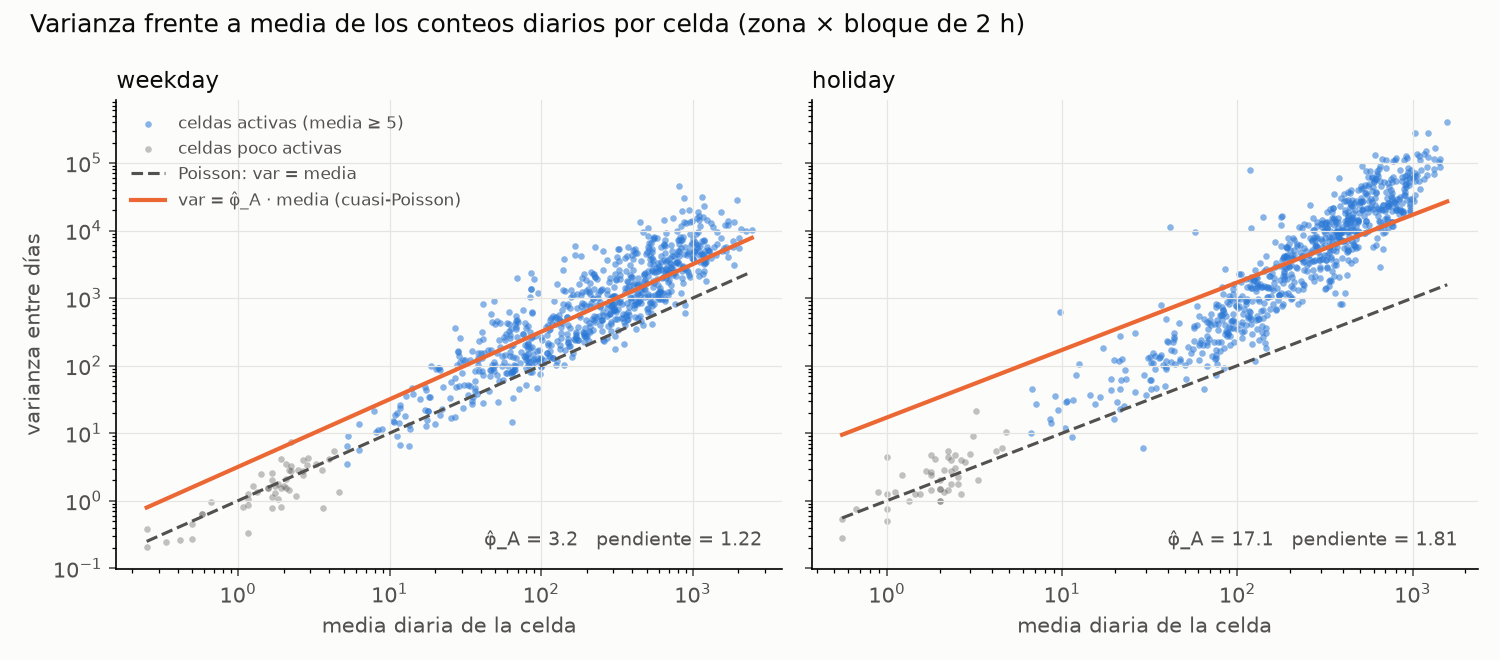
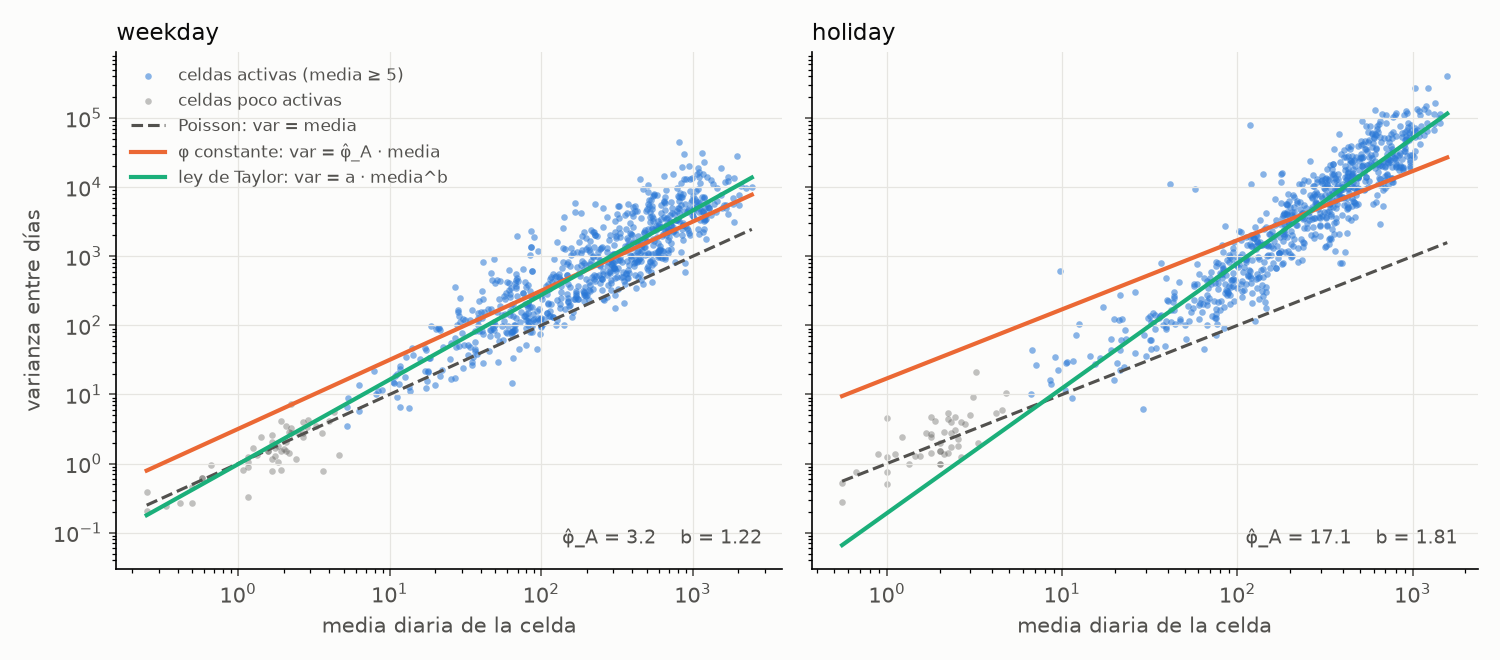
Calibración: función de varianza de Taylor y dispersión residual por tramo de volumen

diff --git a/Calibracion/01_sobredispersion.py b/Calibracion/01_sobredispersion.py
@@ -57,6 +57,7 @@ PERIODOS = {
 }
 N_BINS = 12
 MEDIA_MIN = 5.0     # "actividad suficiente": media diaria mínima de la celda
+TRAMOS = [(5, 50), (50, 500), (500, np.inf)]    # tramos de media diaria
 ALFA = 0.05
 
 
@@ -153,15 +154,22 @@ def estimadores(X):
     contrib = np.sum(div((X - E2) ** 2, E2), axis=0) / ((D - 1) * (Z - 1) * (T - 1) / (Z * T))
     res["D_mediana"] = float(np.median(contrib[activas]))
 
-    # ¿φ constante (cuasi-Poisson, var = φ μ) o binomial negativa (var = μ + μ²/k)?
-    # Pendiente de log var frente a log media: 1 si φ es constante, hasta 2 con BN.
-    res["pendiente"], _ = np.polyfit(np.log(media[activas]), np.log(var[activas]), 1)
-    # Momentos para la BN: 1/k = mediana de (var - media) / media²
-    res["k_BN"] = float(1 / np.median((var[activas] - media[activas]) / media[activas] ** 2))
-    # φ efectivo por tramo de volumen
-    for nombre, (lo, hi) in {"φ media<50": (MEDIA_MIN, 50), "φ media≥500": (500, np.inf)}.items():
-        tramo = activas & (media >= lo) & (media < hi)
-        res[nombre] = float(np.median(var[tramo] / media[tramo]))
+    # Función de varianza. Varianza residual por celda tras el modelo D, escalada
+    # por los gl que le corresponden a cada celda para que sea comparable con var.
+    var_res = np.sum((X - E2) ** 2, axis=0) / ((D - 1) * (Z - 1) * (T - 1) / (Z * T))
+    lm = np.log(media[activas])
+    for sufijo, v in (("", var), ("_res", var_res)):
+        # Ley de potencia de Taylor: var = a μ^b (b = 1: φ constante; b = 2: BN dominada por μ²)
+        b, log_a = np.polyfit(lm, np.log(v[activas]), 1)
+        res["b" + sufijo], res["a" + sufijo] = float(b), float(np.exp(log_a))
+        res["ecm_pot" + sufijo] = float(np.mean((np.log(v[activas]) - (log_a + b * lm)) ** 2))
+        # φ constante con la misma medida de ajuste, para comparar
+        log_phi = np.median(np.log(v[activas]) - lm)
+        res["ecm_phi" + sufijo] = float(np.mean((np.log(v[activas]) - (log_phi + lm)) ** 2))
+        # φ efectivo por tramo de volumen
+        for lo, hi in TRAMOS:
+            tramo = activas & (media >= lo) & (media < hi)
+            res[f"φ[{lo},{hi})" + sufijo] = float(np.median(v[tramo] / media[tramo]))
 
     return res, media, var, activas
 
@@ -205,11 +213,16 @@ def main():
         "C": "C. Pearson X²/gl, modelo [D][ZT] (quita el día)",
         "D": "D. Pearson X²/gl, modelo [DZ][DT][ZT]",
         "D_mediana": "D'. Mediana por celda del modelo D",
-        "φ media<50": "A en celdas con media diaria < 50",
-        "φ media≥500": "A en celdas con media diaria >= 500",
-        "pendiente": "Pendiente log var ~ log media (1 = φ cte.)",
-        "k_BN": "k de la binomial negativa (var = μ + μ²/k)",
     }
+    for sufijo, desc in (("", "var cruda"), ("_res", "var residual modelo D")):
+        nombres.update({
+            f"φ[{lo},{hi})" + sufijo: f"φ por tramo, media en [{lo:g},{hi:g}) ({desc})" for lo, hi in TRAMOS})
+        nombres.update({
+            "b" + sufijo: f"Taylor var = a μ^b: exponente b ({desc})",
+            "a" + sufijo: f"Taylor var = a μ^b: coeficiente a ({desc})",
+            "ecm_pot" + sufijo: f"ECM log-var, ley de potencia ({desc})",
+            "ecm_phi" + sufijo: f"ECM log-var, φ constante ({desc})",
+        })
     lineas = [f"Sobredispersión con réplicas diarias (celdas activas: media diaria >= {MEDIA_MIN:g})", ""]
     resultados, datos_fig = {}, {}
 
@@ -225,10 +238,10 @@ def main():
         lineas.append(f"{periodo}: D = {X.shape[0]} días, N = {int(S.sum()):,} viajes, "
                       f"{activas.sum()} de {activas.size} celdas activas")
     lineas.append("")
-    lineas.append(f"{'Estimador':<50} {'weekday':>9} {'holiday':>9}")
-    lineas.append("-" * 70)
+    lineas.append(f"{'Estimador':<58} {'weekday':>9} {'holiday':>9}")
+    lineas.append("-" * 78)
     for k, nombre in nombres.items():
-        lineas.append(f"{nombre:<50} {resultados['weekday'][k]:>9.2f} {resultados['holiday'][k]:>9.2f}")
+        lineas.append(f"{nombre:<58} {resultados['weekday'][k]:>9.2f} {resultados['holiday'][k]:>9.2f}")
 
     # Pruebas en los bloques base de ST-CC
     for periodo, X in tensores.items():
@@ -256,7 +269,7 @@ def main():
 
 
 def figura(datos_fig):
-    tinta, tinta2, azul, naranja = "#0b0b0b", "#52514e", "#2a78d6", "#eb6834"
+    tinta, tinta2, azul, naranja, aqua = "#0b0b0b", "#52514e", "#2a78d6", "#eb6834", "#1baf7a"
     fig, ejes = plt.subplots(1, 2, figsize=(10, 4.4), sharey=True, facecolor="#fcfcfb")
     for ax, (periodo, (media, var, activas, res)) in zip(ejes, datos_fig.items()):
         ax.set_facecolor("#fcfcfb")
@@ -267,8 +280,9 @@ def figura(datos_fig):
                    linewidths=0, label="celdas poco activas")
         x = np.logspace(np.log10(media[m].min()), np.log10(media.max()), 100)
         ax.plot(x, x, color=tinta2, lw=1.5, ls="--", label="Poisson: var = media")
-        ax.plot(x, res["A"] * x, color=naranja, lw=2, label="var = φ̂_A · media (cuasi-Poisson)")
-        ax.text(0.97, 0.04, f"φ̂_A = {res['A']:.1f}   pendiente = {res['pendiente']:.2f}",
+        ax.plot(x, res["A"] * x, color=naranja, lw=2, label="φ constante: var = φ̂_A · media")
+        ax.plot(x, res["a"] * x ** res["b"], color=aqua, lw=2, label="ley de Taylor: var = a · media^b")
+        ax.text(0.97, 0.04, f"φ̂_A = {res['A']:.1f}    b = {res['b']:.2f}",
                 transform=ax.transAxes, ha="right", va="bottom", color=tinta2, fontsize=9)
         ax.set_xscale("log")
         ax.set_yscale("log")
@@ -280,8 +294,6 @@ def figura(datos_fig):
         ax.tick_params(colors=tinta2)
     ejes[0].set_ylabel("varianza entre días", color=tinta2)
     ejes[0].legend(frameon=False, fontsize=8, loc="upper left", labelcolor=tinta2)
-    fig.suptitle("Varianza frente a media de los conteos diarios por celda (zona × bloque de 2 h)",
-                 color=tinta, x=0.02, ha="left", fontsize=12)
     fig.tight_layout()
     fig.savefig(SALIDA_RES / "sobredispersion_media_varianza.png", dpi=150)
 
